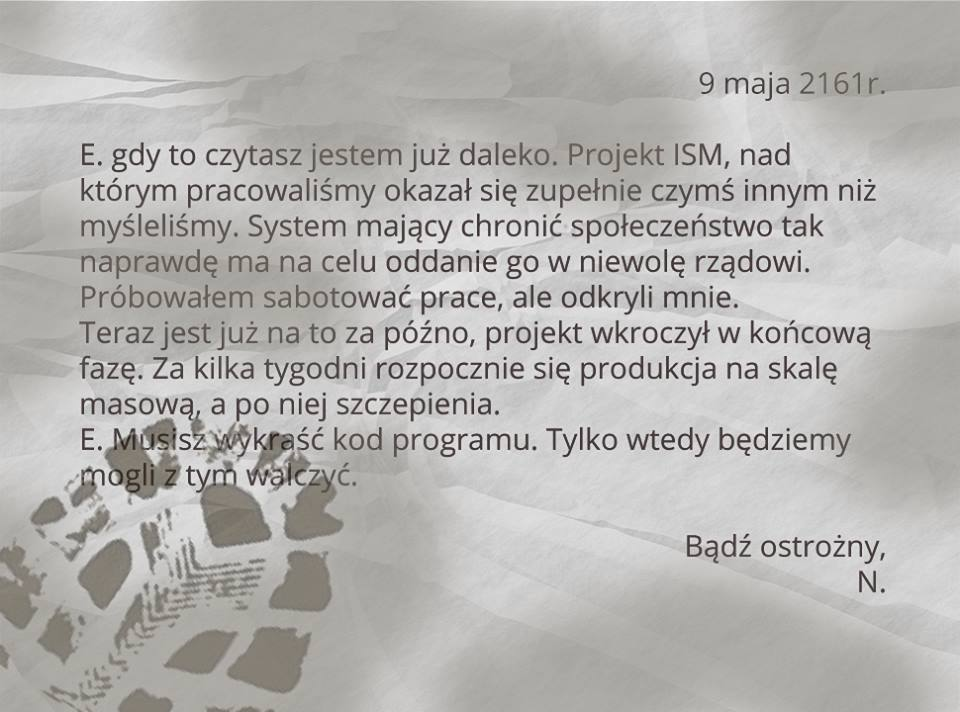
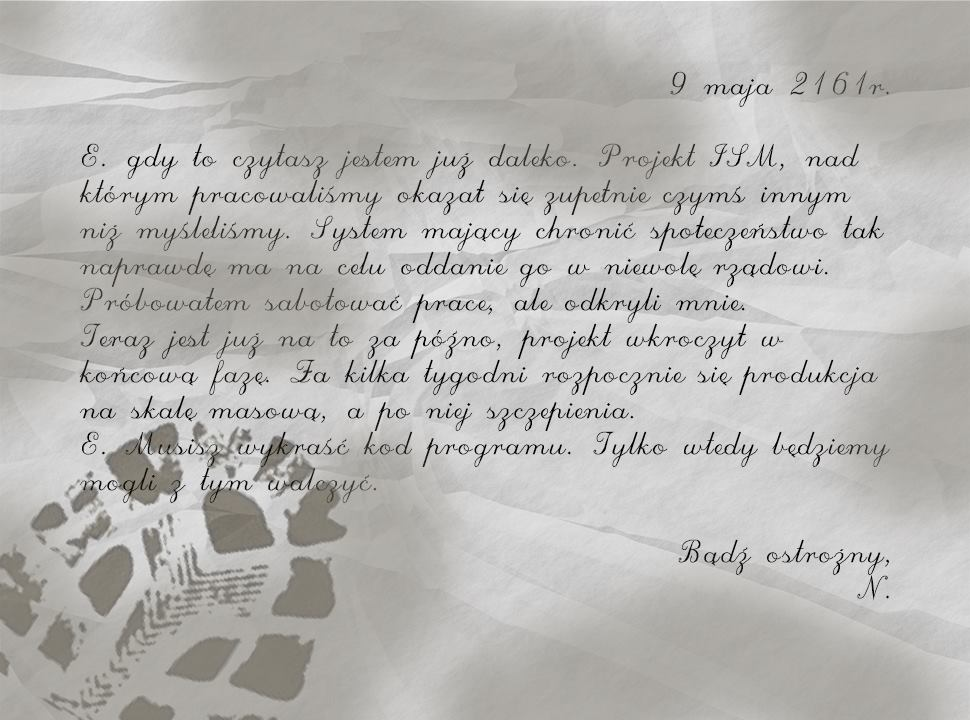
Nowy intro screen

Changed region(s): [[0.0625, 0.1854, 0.9062, 0.7107], [0.6875, 0.7416, 0.9375, 0.8343], [0.6875, 0.0927, 0.9062, 0.1545]]

diff --git a/ElonsRiot/ElonsRiot/ElonsRiot/Scene.cs b/ElonsRiot/ElonsRiot/ElonsRiot/Scene.cs
@@ -240,10 +240,10 @@ namespace ElonsRiot
             {
                 gObj.RefreshMatrix();
                
-                DrawBoudingBoxes(graphic, gObj);
+                //DrawBoudingBoxes(graphic, gObj);
             }
             shadowMap = null;
-            DrawBoudingBox(graphic);
+           // DrawBoudingBox(graphic);
             DrawRay(graphic);
         }
         public void PlayerControll(KeyboardState _state, GameTime gameTime, MouseState _mouseState)

diff --git a/ElonsRiot/ElonsRiot/ElonsRiot/DialogTime.cs b/ElonsRiot/ElonsRiot/ElonsRiot/DialogTime.cs
@@ -1,0 +1,15 @@
+using System;
+using System.Collections.Generic;
+using System.Linq;
+using System.Text;
+using System.Xml.Serialization;
+
+namespace ElonsRiot
+{
+     [Serializable]
+    public class DialogTime
+    {
+        [XmlElement("time")]
+        public List<float> Times { get; set; }
+    }
+}
